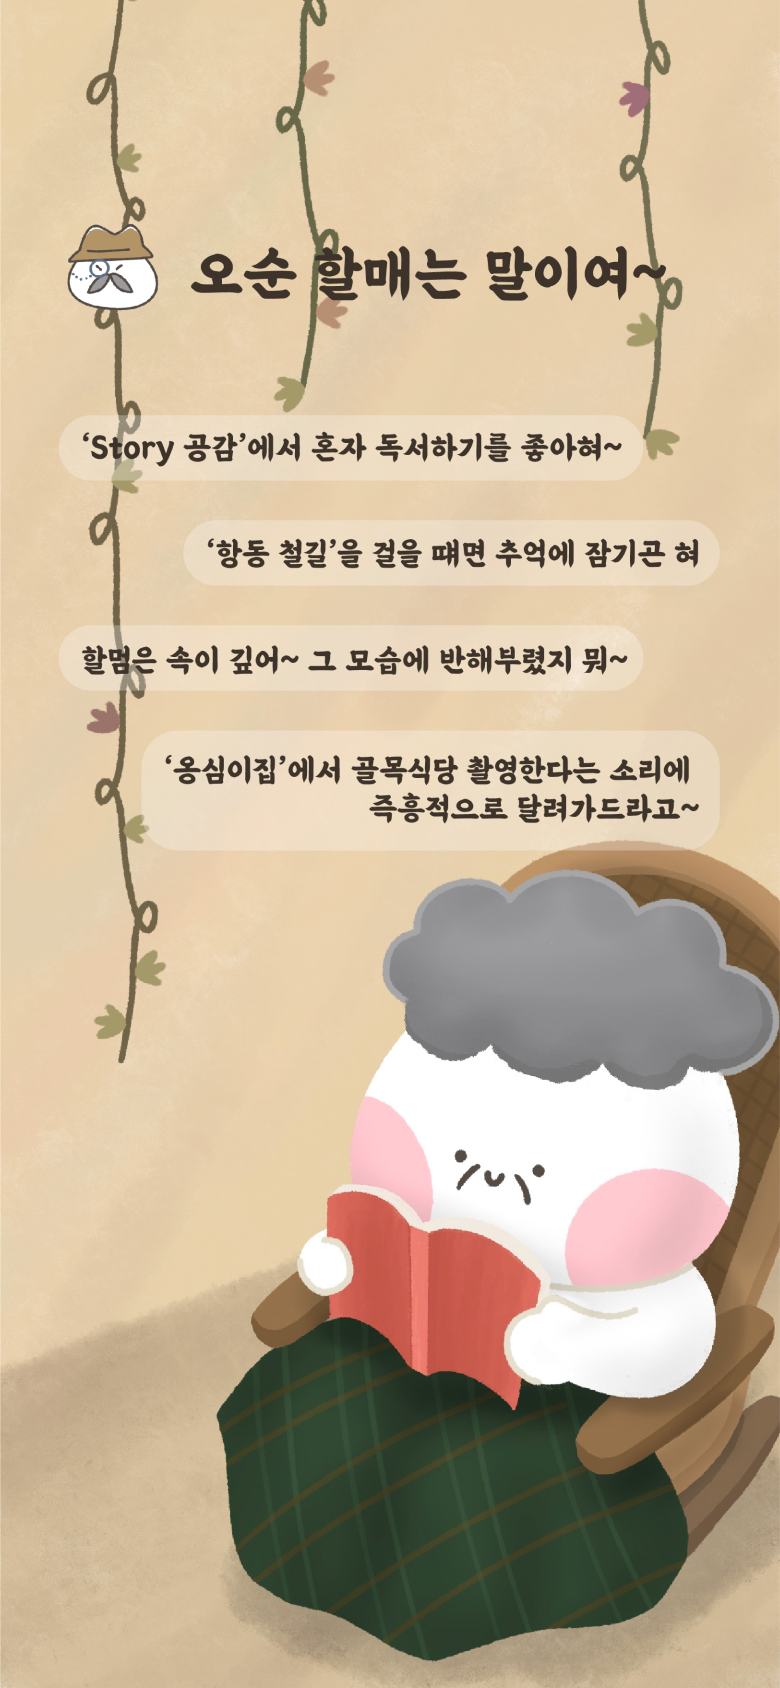
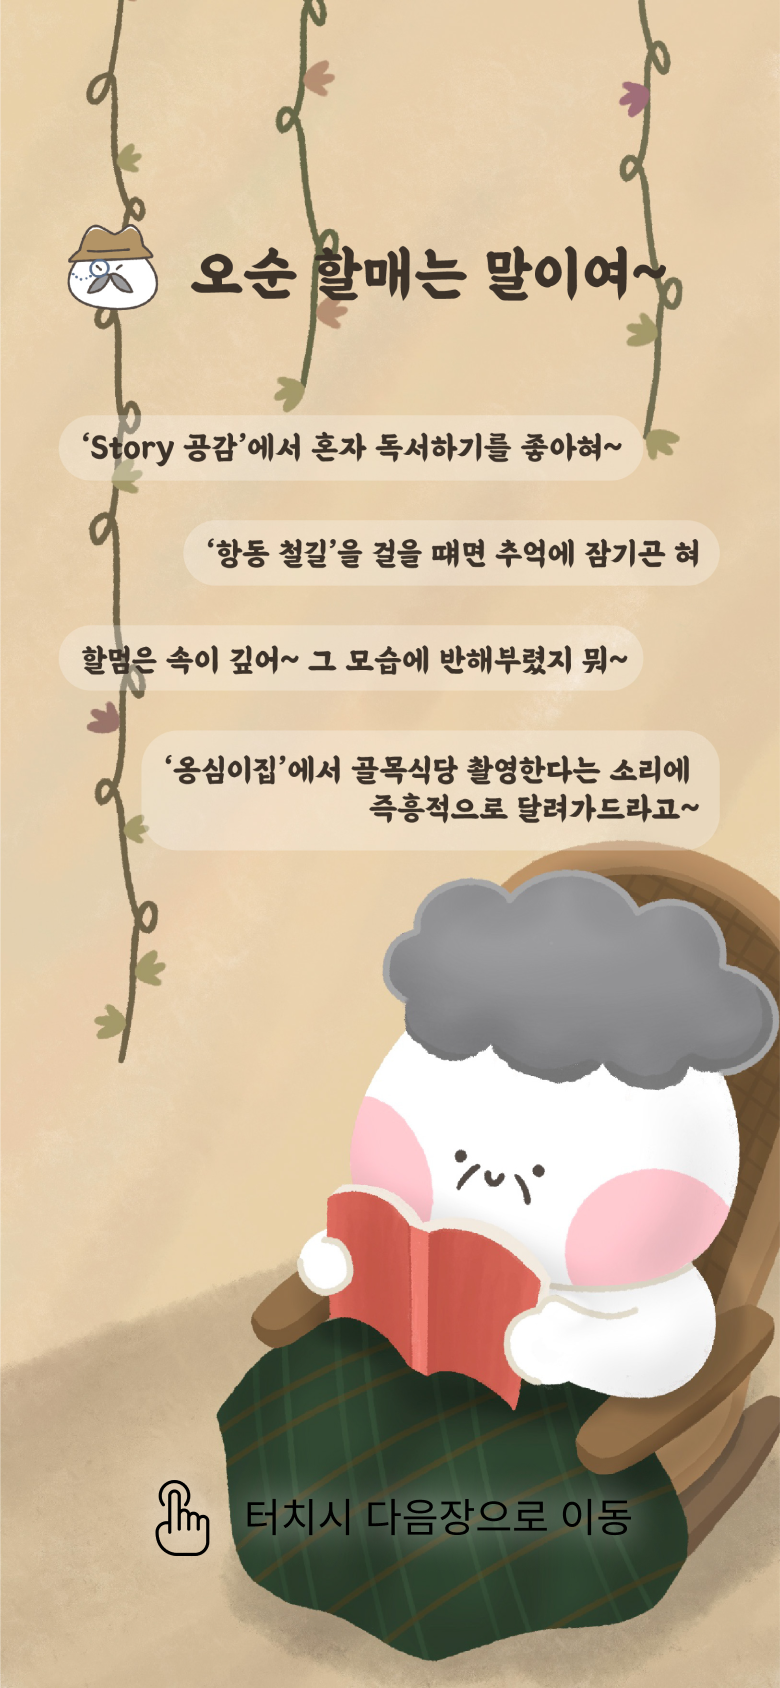
feat: image 애니메이션

Changed region(s): [[0.3077, 0.8626, 0.8, 0.9242], [0.1846, 0.8626, 0.2769, 0.9242]]

diff --git a/src/views/Event2.vue b/src/views/Event2.vue
@@ -1,49 +1,157 @@
 <template>
-<div class="container" @click="click()">
-  <img class="icon" align = "left" src="../assets/backIcon.png" @click.stop="back()"> 
-  <img class="bottom" src="../assets/touch.png"> 
-</div>
+  <div class="container" @click="click()">
+    <img
+      class="icon"
+      align="left"
+      src="../assets/backIcon.png"
+      @click.stop="back()"
+      @load="imgLoadedMethod"
+    />
+    <div class="item">
+      <div class="bubble-container">
+      <img
+        :class="{ first: true, active: loaded }"
+        src="../assets/papaEvent/first.png"
+      />
+      <img
+        :class="{ first: true, active: loaded }"
+        src="../assets/papaEvent/first_1.png"
+      />
+      </div>
+      <div class="bubble-container">
+      <img
+        :class="{ second: true, active: loaded }"
+        src="../assets/papaEvent/second.png"
+        style="height: 3.9vh"
+      />
+      </div>
+      <div class="bubble-container right">
+      <img
+        :class="{ third: true, active: loaded }"
+        src="../assets/papaEvent/third.png"
+        style="height: 3.9vh"
+      />
+      </div>
+      <div class="bubble-container left">
+      <img
+        :class="{ fourth: true, active: loaded }"
+        src="../assets/papaEvent/fourth.png"
+        style="height: 9.5vh"
+      />
+      </div>
+      <div class="bubble-container right">
+      <img
+        :class="{ fifth: true, active: loaded }"
+        src="../assets/papaEvent/fifth.png"
+        style="height: 7.1%"
+      />
+      </div>
+    </div>
+    <img class="bottom" src="../assets/touch.png" />
+  </div>
 </template>
 
 <script>
 export default {
-  name: "Event2",
+  name: "Event2_1",
+  data: function () {
+    return {
+      loaded: false,
+    };
+  },
   methods: {
-    click(){
-      this.$router.push('Event3');
+    imgLoadedMethod() {
+      this.loaded = true;
     },
-    back(){
+    click() {
+      this.$router.push("Event2");
+    },
+    back() {
       this.$router.go(-1);
-    }
-}
+    },
+  },
 };
 </script>
 
 <style scoped>
-.container{
-    max-width: 500vw;
-    min-height: 100vh;
-    height: 100%;
-    width: 100%;
-    background-image: url("../assets/ev2.png");
-    background-repeat: no-repeat;
-    background-size: cover;
-    background-position: center;
-    position: relative;
+.container .item{
+  display: flex;
+  flex-direction: column;
+  padding-top: 20%;
+  align-items: flex-start;
+  padding-left: 30px;
+  padding-right: 30px;
+}
+
+.item .bubble-container:nth-child(1){
+  margin-bottom: 40px;
+}
+
+.item .bubble-container.right{
+  display: flex;
+  justify-content: flex-end;
+  width: 100%;
+  margin-top: 5%;
+}
+
+.item .bubble-container.left{
+  display: flex;
+  /* width: 100%; */
+  margin-top: 5%;
+}
+
+.bubble-container img{
+  object-fit: contain;
+}
+
+img.active {
+  opacity: 1;
+}
+
+.first {
+  opacity: 0;
+  transition: opacity 1s 0.5s;
+}
+.second {
+  opacity: 0;
+  transition: opacity 1s 1.5s;
+}
+.third {
+  opacity: 0;
+  transition: opacity 1s 2.5s;
+}
+.fourth {
+  opacity: 0;
+  transition: opacity 1s 3.5s;
+}
+.fifth {
+  opacity: 0;
+  transition: opacity 1s 4.5s;
+}
+.container {
+  max-width: 500px;
+  min-height: 100vh;
+  background-image: url("../assets/papaEvent/background.png");
+  background-repeat: no-repeat;
+  background-size: cover;
+  background-position: center;
+  position: relative;
 }
 
 .container .icon {
   height: 35px;
   width: 35px;
   z-index: 1;
+  position: absolute;
+  top: 15px;
+  left: 15px;
 }
 
-.container .bottom{
+.container .bottom {
   position: absolute;
   width: 85%;
   bottom: 20px;
   left: 50%;
   transform: translate(-50%, 0);
 }
-
 </style>

diff --git a/src/views/Event2_1.vue b/src/views/Event2_1.vue
@@ -29,13 +29,11 @@ export default {
     background-position: center;
     position: relative;
 }
-
 .container .icon {
   height: 35px;
   width: 35px;
   z-index: 1;
 }
-
 .container .bottom{
   position: absolute;
   width: 85%;
@@ -43,5 +41,4 @@ export default {
   left: 50%;
   transform: translate(-50%, 0);
 }
-
 </style>
